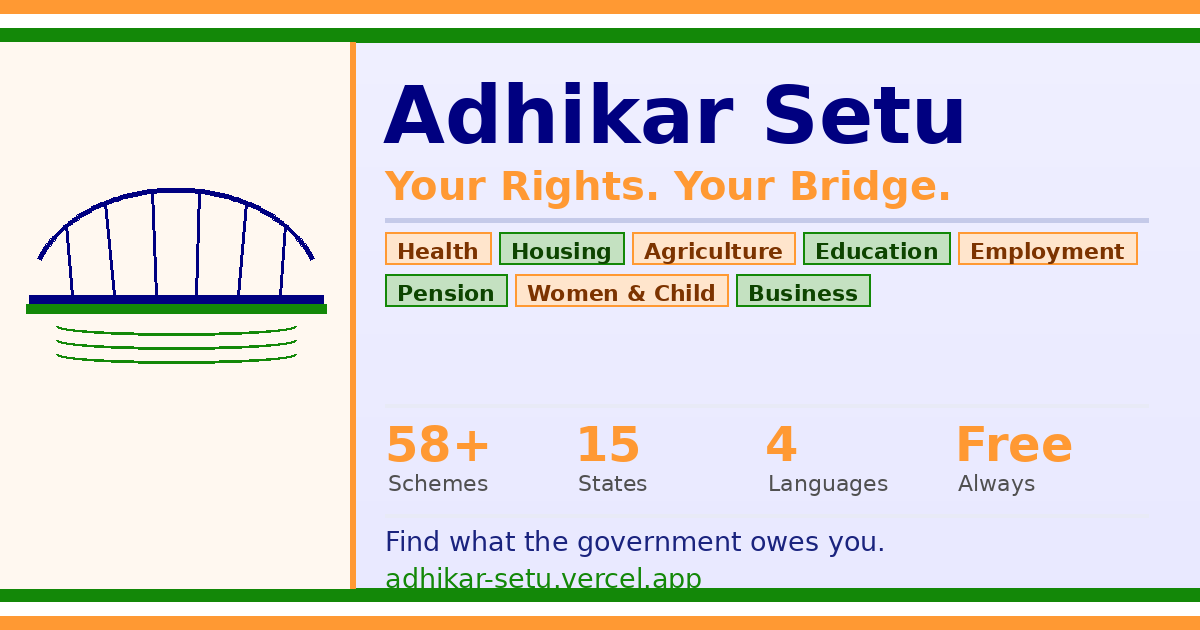
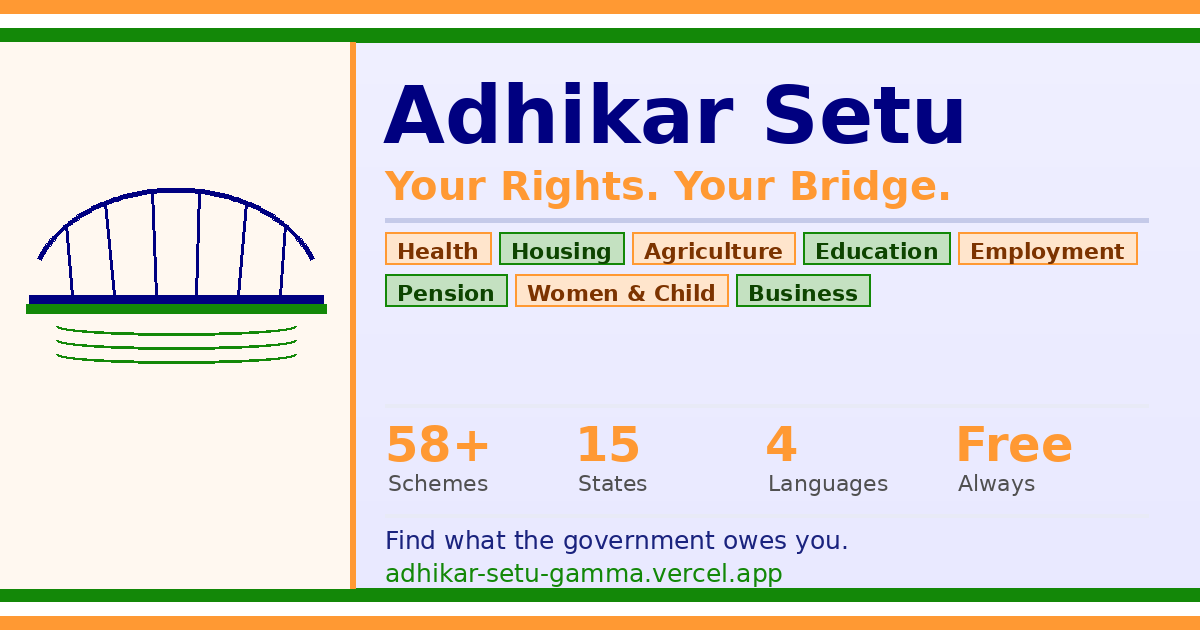
Update all URLs to adhikar-setu-gamma.vercel.app (canonical, OG, sitemap, WhatsApp share)

Changed region(s): [[0.3083, 0.8444, 0.74, 0.9349]]

diff --git a/index.html b/index.html
@@ -19,14 +19,14 @@
   <meta name="description" content="Find 58+ Indian government schemes you qualify for — PM-JAY, PM Kisan, Mudra, scholarships, pensions and state schemes. Free, multilingual (English/Hindi/Telugu/Kannada), works offline."/>
   <meta name="keywords" content="government schemes India, sarkari yojana, PM-JAY, PM Kisan, Mudra loan, scholarships, pension, adhikar setu, Karnataka schemes, Telangana schemes, myscheme.gov.in"/>
   <meta name="robots" content="index, follow"/>
-  <link rel="canonical" href="https://adhikar-setu.vercel.app"/>
+  <link rel="canonical" href="https://adhikar-setu-gamma.vercel.app"/>
 
   <!-- Open Graph -->
   <meta property="og:title" content="Adhikar Setu — Your Rights Bridge"/>
   <meta property="og:description" content="Find 58+ verified Indian government schemes across 15 states. Free, multilingual, works offline."/>
   <meta property="og:type" content="website"/>
-  <meta property="og:url" content="https://adhikar-setu.vercel.app"/>
-  <meta property="og:image" content="https://adhikar-setu.vercel.app/og-image.png"/>
+  <meta property="og:url" content="https://adhikar-setu-gamma.vercel.app"/>
+  <meta property="og:image" content="https://adhikar-setu-gamma.vercel.app/og-image.png"/>
   <meta property="og:image:width" content="1200"/>
   <meta property="og:image:height" content="630"/>
   <meta property="og:image:alt" content="Adhikar Setu — Find Indian government schemes"/>
@@ -37,7 +37,7 @@
   <meta name="twitter:card" content="summary_large_image"/>
   <meta name="twitter:title" content="Adhikar Setu — Find Government Schemes"/>
   <meta name="twitter:description" content="58+ verified Central + State schemes. PM-JAY, Mudra, PM Kisan and more. Free app."/>
-  <meta name="twitter:image" content="https://adhikar-setu.vercel.app/og-image.png"/>
+  <meta name="twitter:image" content="https://adhikar-setu-gamma.vercel.app/og-image.png"/>
 
   <!-- JSON-LD Structured Data -->
   <script type="application/ld+json">
@@ -46,7 +46,7 @@
     "@type": "WebApplication",
     "name": "Adhikar Setu",
     "description": "Find Indian government schemes you qualify for — 58+ verified Central and State schemes across health, housing, agriculture, education and more.",
-    "url": "https://adhikar-setu.vercel.app",
+    "url": "https://adhikar-setu-gamma.vercel.app",
     "applicationCategory": "GovernmentApplication",
     "operatingSystem": "Any",
     "offers": { "@type": "Offer", "price": "0", "priceCurrency": "INR" },

diff --git a/src/App.jsx b/src/App.jsx
@@ -123,13 +123,13 @@ function Spinner({ T }) {
 }
 
 function shareOnWhatsApp(scheme){
-  const msg=`🌉 *Adhikar Setu*\n\n*${scheme.name}*\n💰 ${scheme.benefit}\n🔗 ${scheme.applyUrl}\n\n_Find your schemes: adhikar-setu.vercel.app_`;
+  const msg=`🌉 *Adhikar Setu*\n\n*${scheme.name}*\n💰 ${scheme.benefit}\n🔗 ${scheme.applyUrl}\n\n_Find your schemes: adhikar-setu-gamma.vercel.app_`;
   window.open(`https://wa.me/?text=${encodeURIComponent(msg)}`,"_blank");
 }
 
 function shareAllResults(schemes){
   const lines=schemes.slice(0,8).map((s,i)=>`${i+1}. *${s.name}*\n   💰 ${s.benefit}`).join("\n\n");
-  const msg=`🌉 *Adhikar Setu — My Eligible Schemes*\n\n${lines}\n\n_Find your schemes: adhikar-setu.vercel.app_`;
+  const msg=`🌉 *Adhikar Setu — My Eligible Schemes*\n\n${lines}\n\n_Find your schemes: adhikar-setu-gamma.vercel.app_`;
   window.open(`https://wa.me/?text=${encodeURIComponent(msg)}`,"_blank");
   trackEvent("share_all",{ count:schemes.length });
 }
@@ -619,7 +619,7 @@ export default function App(){
       {typeof document!=="undefined"&&!document.getElementById("plausible-script")&&(()=>{
         const s=document.createElement("script");
         s.id="plausible-script"; s.defer=true;
-        s.setAttribute("data-domain","adhikar-setu.vercel.app");
+        s.setAttribute("data-domain","adhikar-setu-gamma.vercel.app");
         s.src="https://plausible.io/js/script.js";
         document.head.appendChild(s);
         return null;